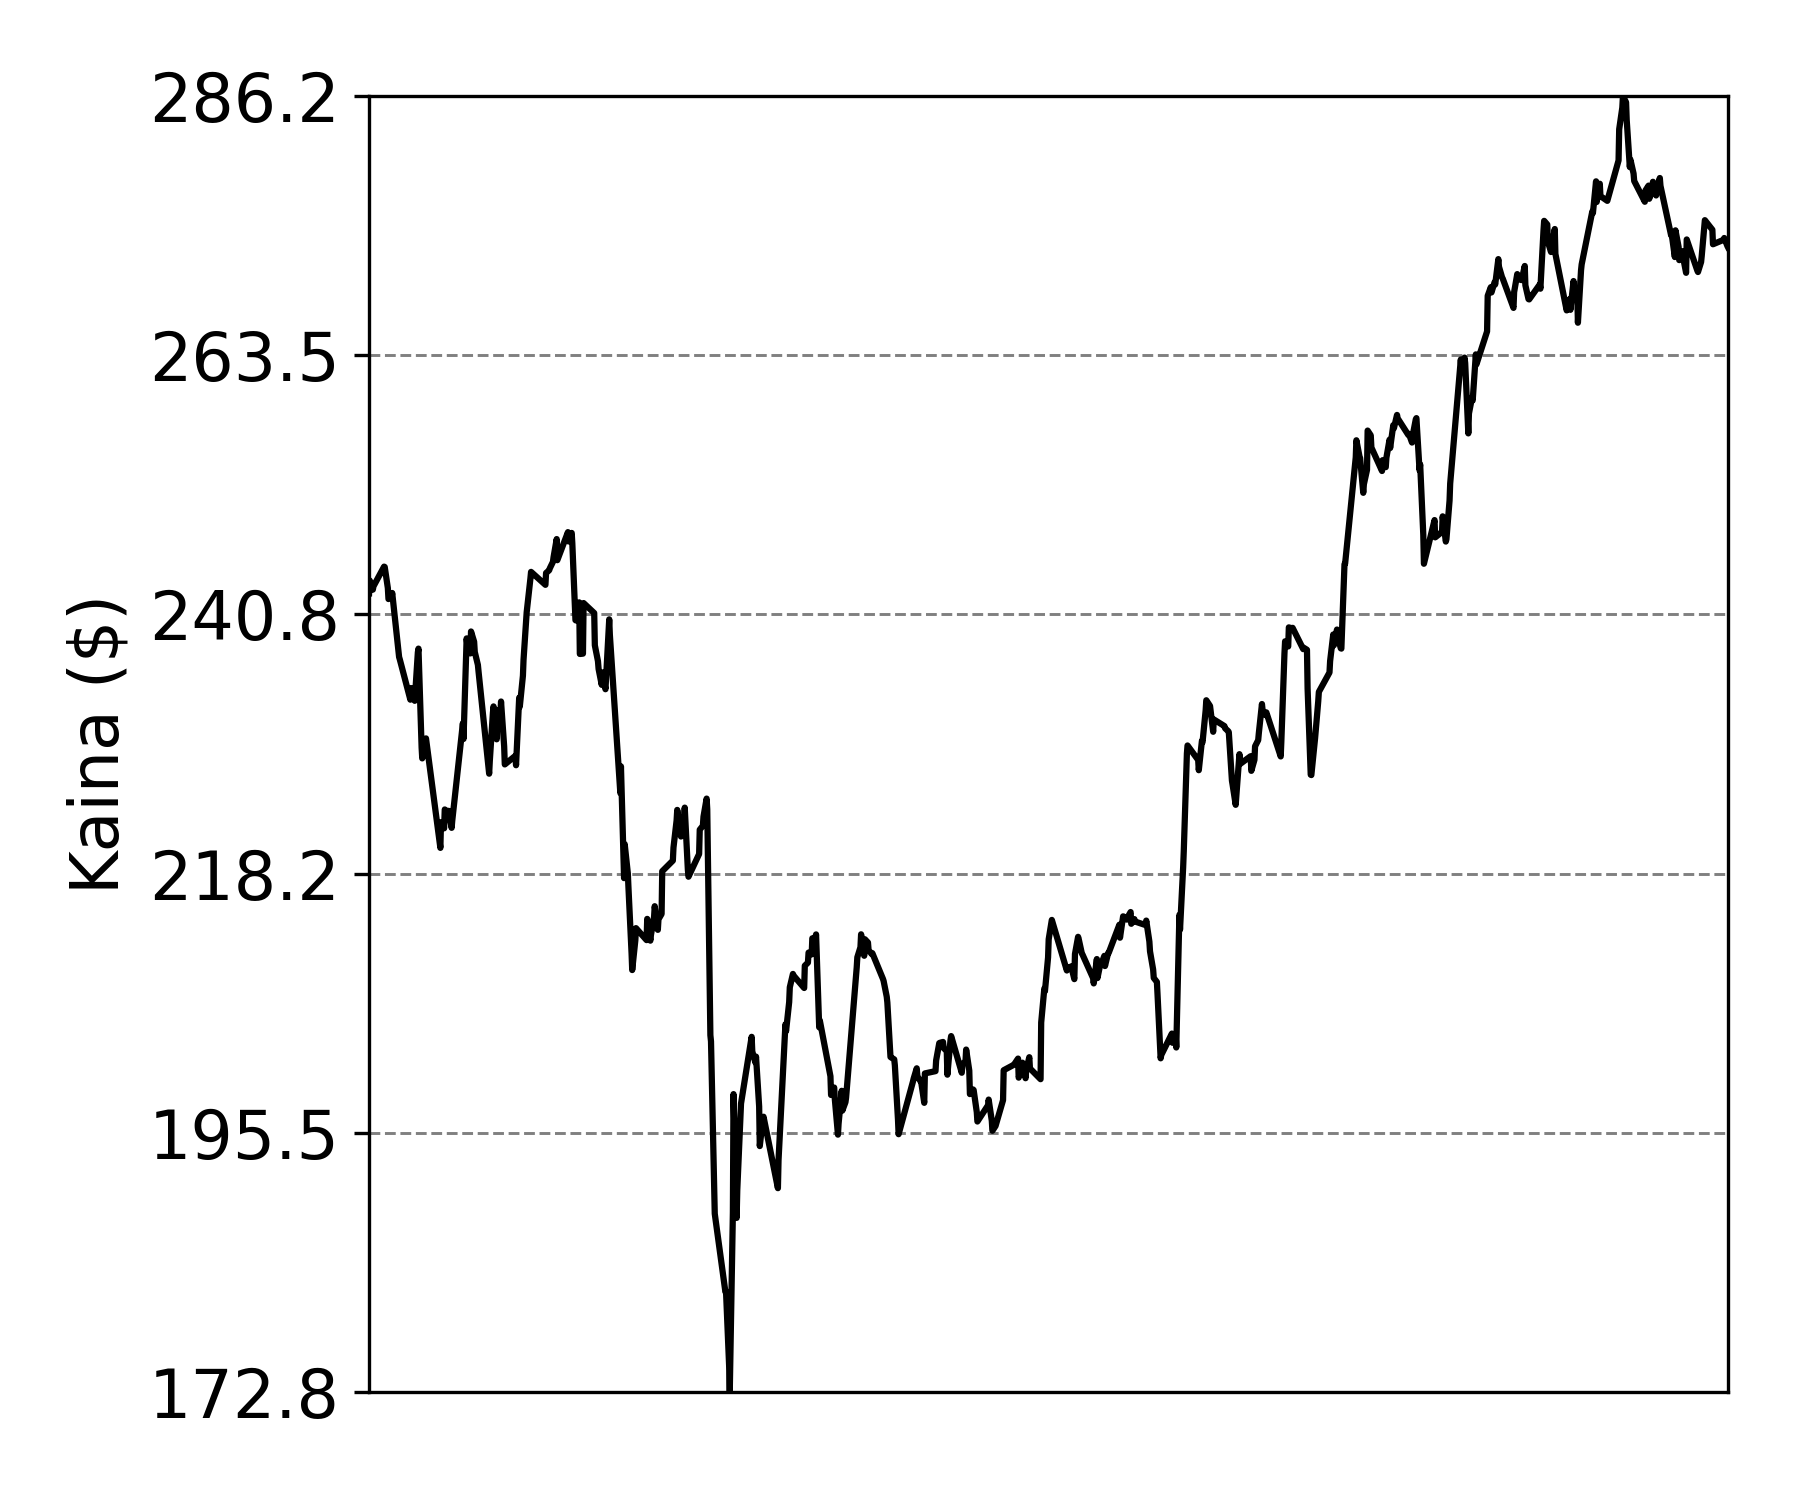
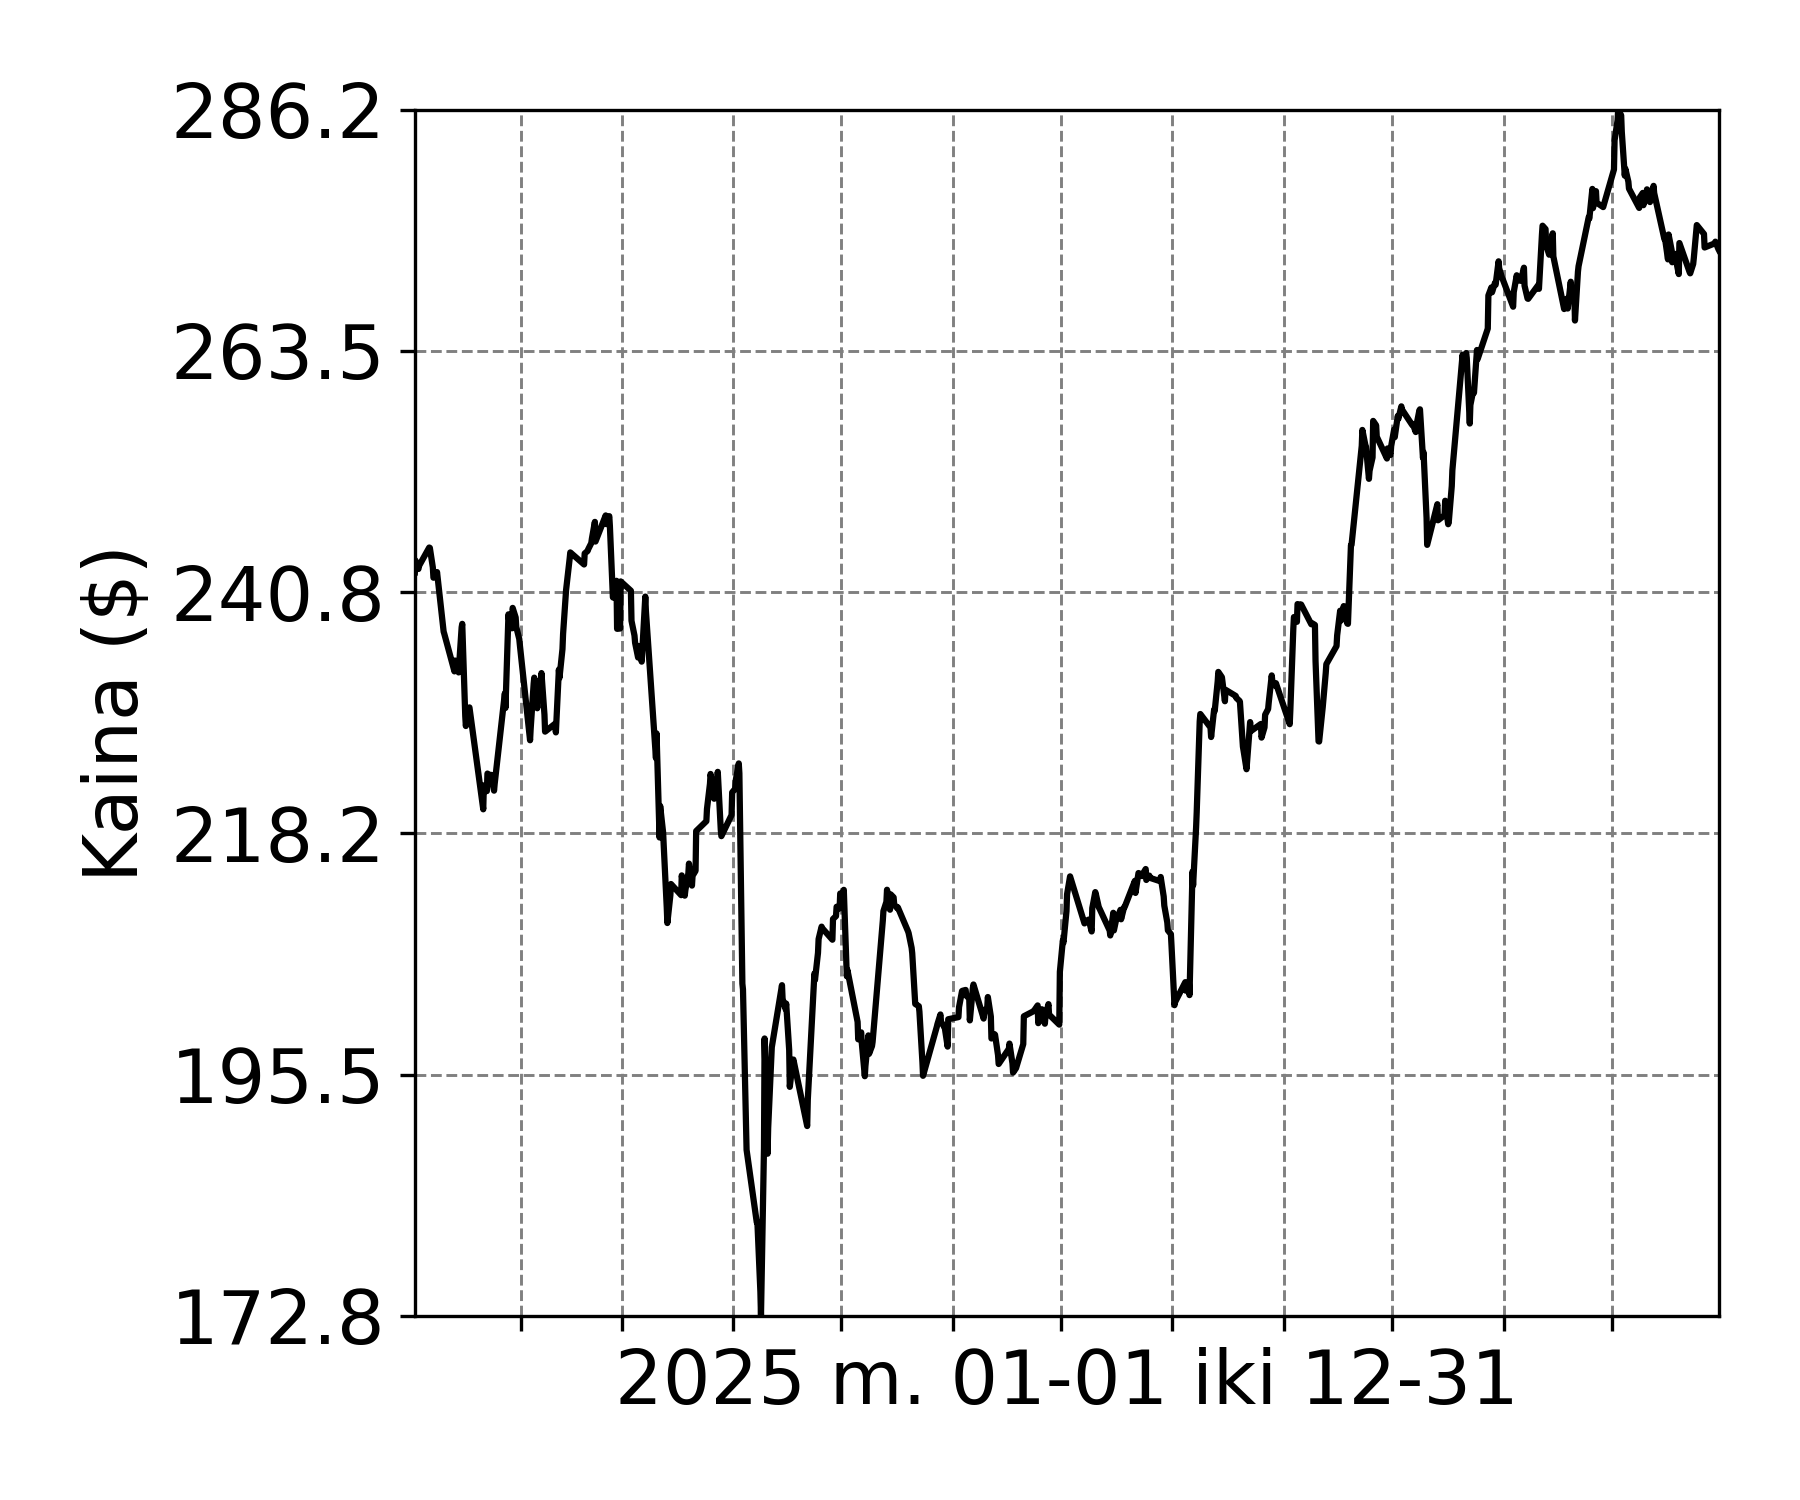
work

diff --git a/recursive_diagrams/src/finance.py b/recursive_diagrams/src/finance.py
@@ -26,7 +26,7 @@ import matplotlib.ticker as ticker
 sig = np.array(df["Close"].squeeze().tolist())
 
 # Set bigger fonts for paper
-plt.rcParams.update({'font.size': 16})
+plt.rcParams.update({'font.size': 18})
 
 # Create figure (slightly rectangular, adjust if you want square)
 fig, ax = plt.subplots(figsize=(6, 5))
@@ -39,7 +39,7 @@ ax.plot(df.index, sig, color='black', linewidth=1.5)
 
 # Set x-axis major ticks: every 50 data points (adjust as needed)
 # ax.set_xticks(df.index[::3 * 11 * 5 - 1])
-ax.get_xaxis().set_visible(False)
+ax.tick_params(axis="x", labelbottom=False)
 
 # Set y-axis major ticks based on min/max rounded nicely
 ymin, ymax = sig.min(), sig.max()
@@ -60,7 +60,7 @@ ax.spines['bottom'].set_visible(True)
 ax.spines['left'].set_visible(True)
 
 # Labels
-ax.set_xlabel("Data")
+ax.set_xlabel("2025 m. 01-01 iki 12-31")
 ax.set_ylabel("Kaina ($)")
 
 # Tight layout
